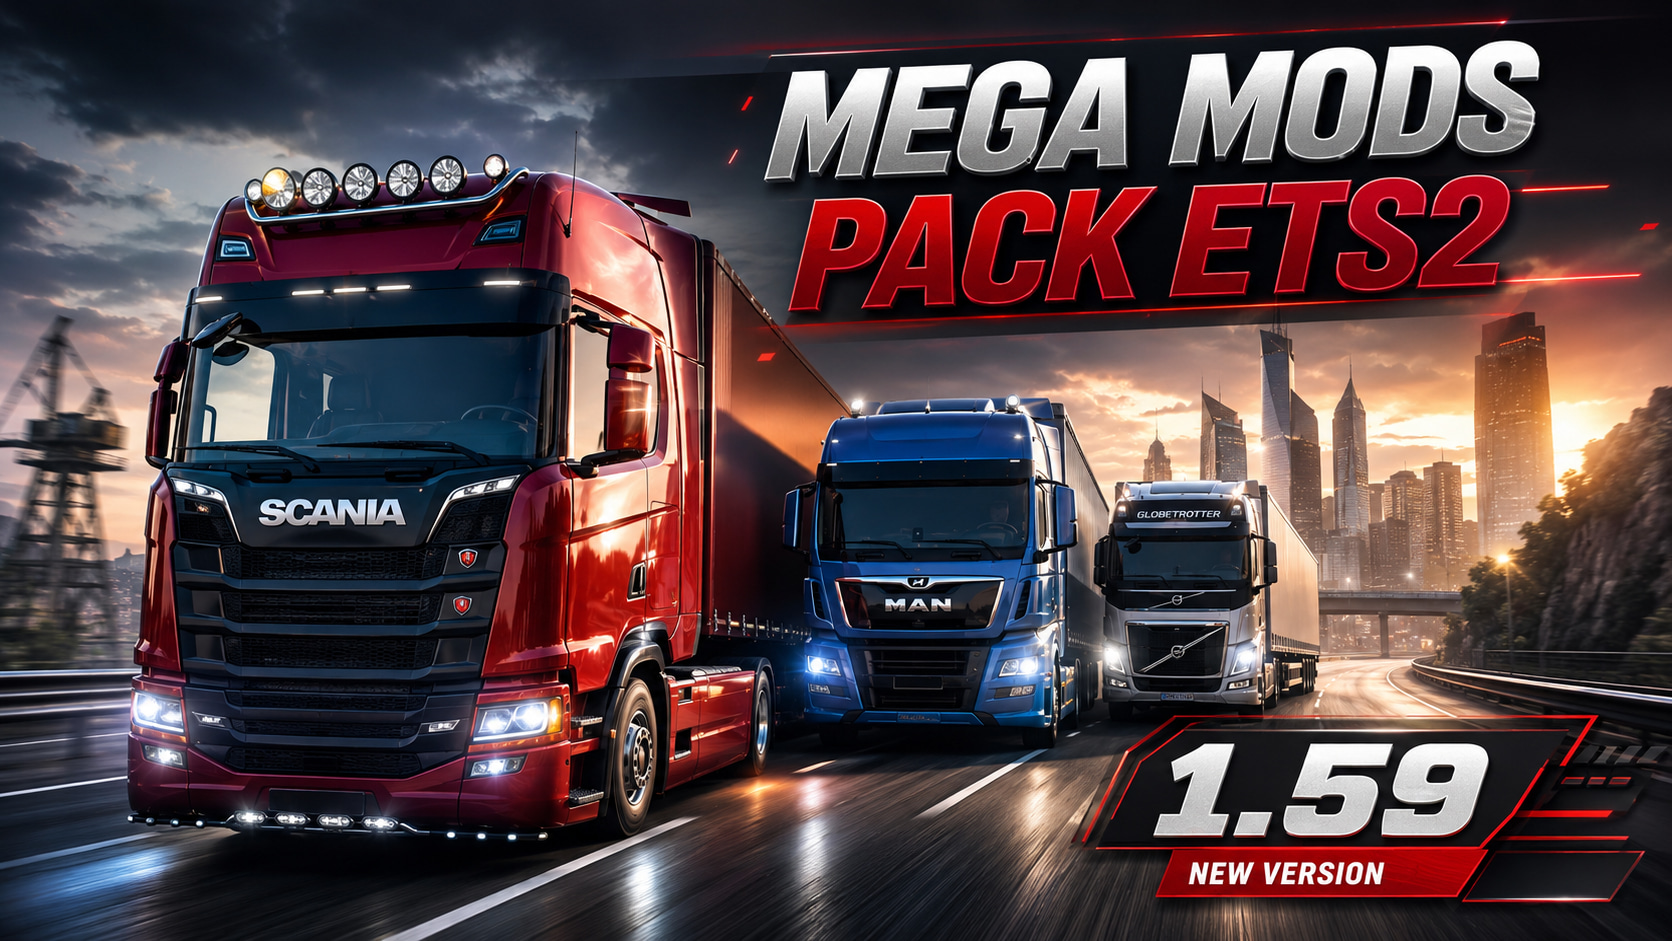
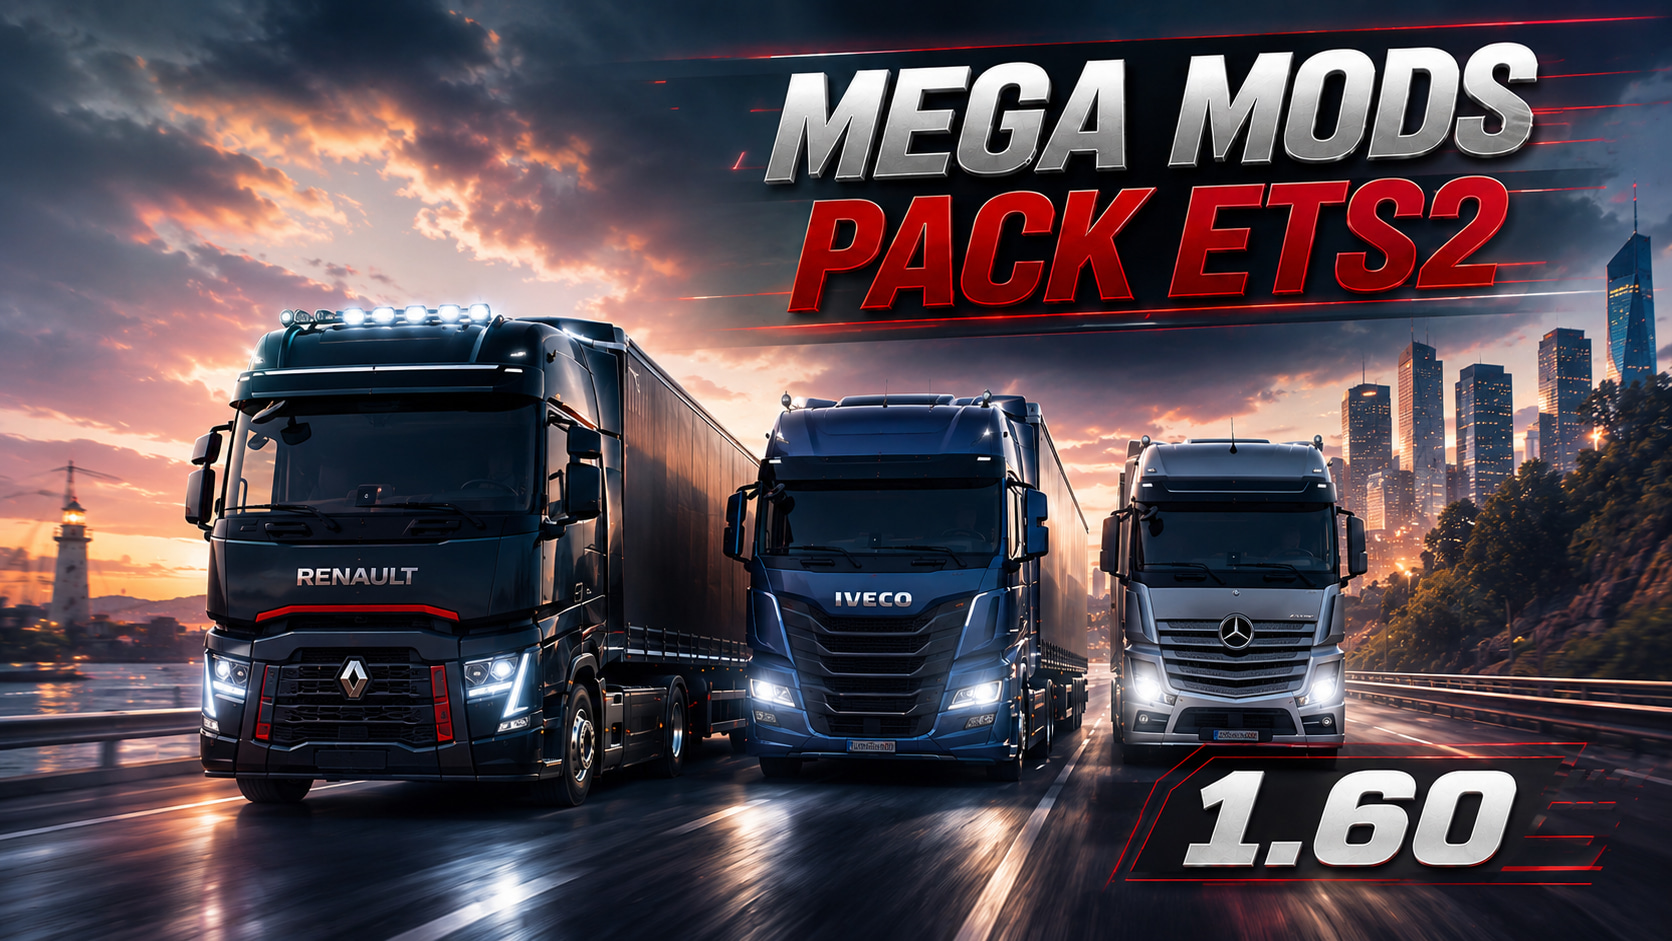
upd mod

diff --git a/src/data/combos/v1.60.js b/src/data/combos/v1.60.js
@@ -112,4 +112,18 @@ export const combos_v1_60 = [
     image_center: "img/combos/160/ats-server/ats-server-center.jpg",
     profile: "https://sharemods.com/fn3101x4e6pt/1.60_ATS_SERVER.zip.html",
   },
+   {
+    id: "ets2-mod-combo-160",
+    tags: ["ets2", "boosty", "convoy"],
+    title: "ETS2 MODS COMBO",
+    preview: "img/combos/160/ets2-mods/ets2-mods-preview.jpg",
+    version_game: "1.60",
+    version: "1.0",
+    date: "04.07.26",
+    video: "oxTMNZk9FWk",
+    image_center: "img/combos/160/ets2-mods/ets2-mods-center.jpg",
+    table:
+      "",
+    profile: "https://sharemods.com/g8rgqs0p5drb/1.60_ETS2_MODS_PACK_100_1.0.zip.html",
+  },
 ];
